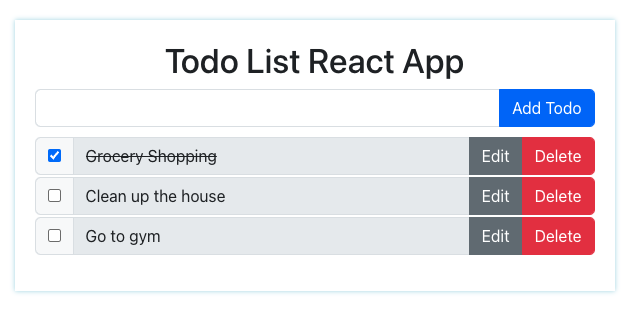
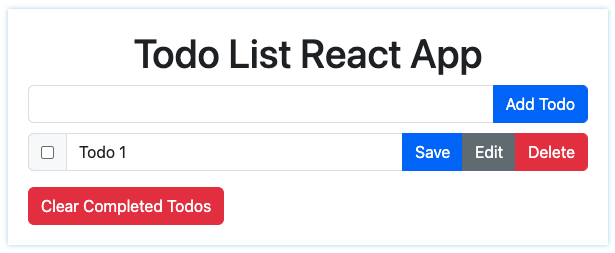
new changes

diff --git a/src/App.jsx b/src/App.jsx
@@ -1,10 +1,34 @@
+import { InputGroup, Input, Button, List, InputGroupText } from "reactstrap";
 import "./App.css";
-import TodoList from "./components/TodoList";
 
 function App() {
   return (
     <div className="App">
-      <TodoList />
+      <h1>Todo List React App</h1>
+      <InputGroup>
+        <Input />
+        <Button color="primary">Add Todo</Button>
+      </InputGroup>
+      <main>
+        <List style={{ padding: "0" }}>
+          <InputGroup style={{ marginBottom: "2px" }}>
+            <InputGroupText>
+              <Input
+                addon
+                aria-label="Checkbox for following text input"
+                type="checkbox"
+              />
+            </InputGroupText>
+            <Input value="Todo 1" onChange={() => {}} />
+            <Button color="primary">Save</Button>
+            <Button color="secondary">Edit</Button>
+            <Button color="danger">Delete</Button>
+          </InputGroup>
+        </List>
+      </main>
+      <footer>
+        <Button color="danger">Clear Completed Todos</Button>
+      </footer>
     </div>
   );
 }
